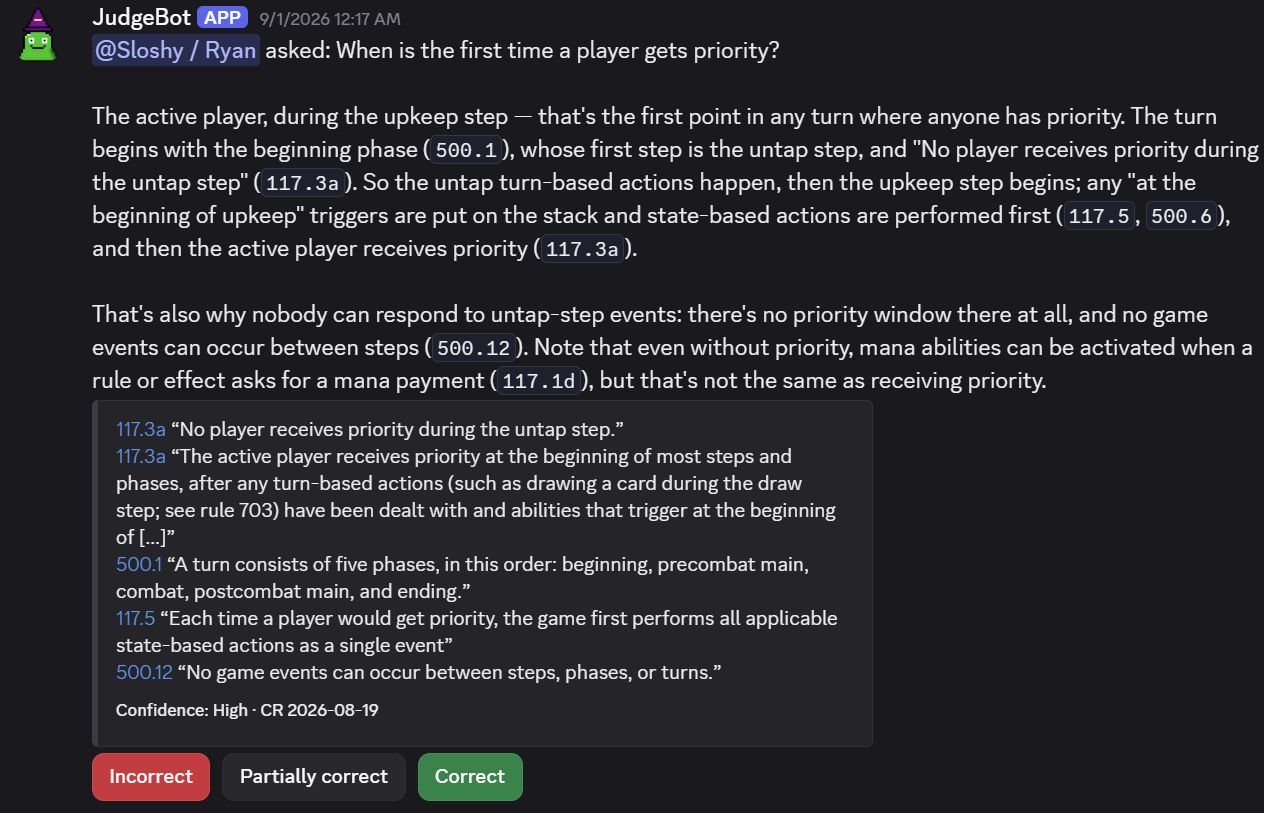
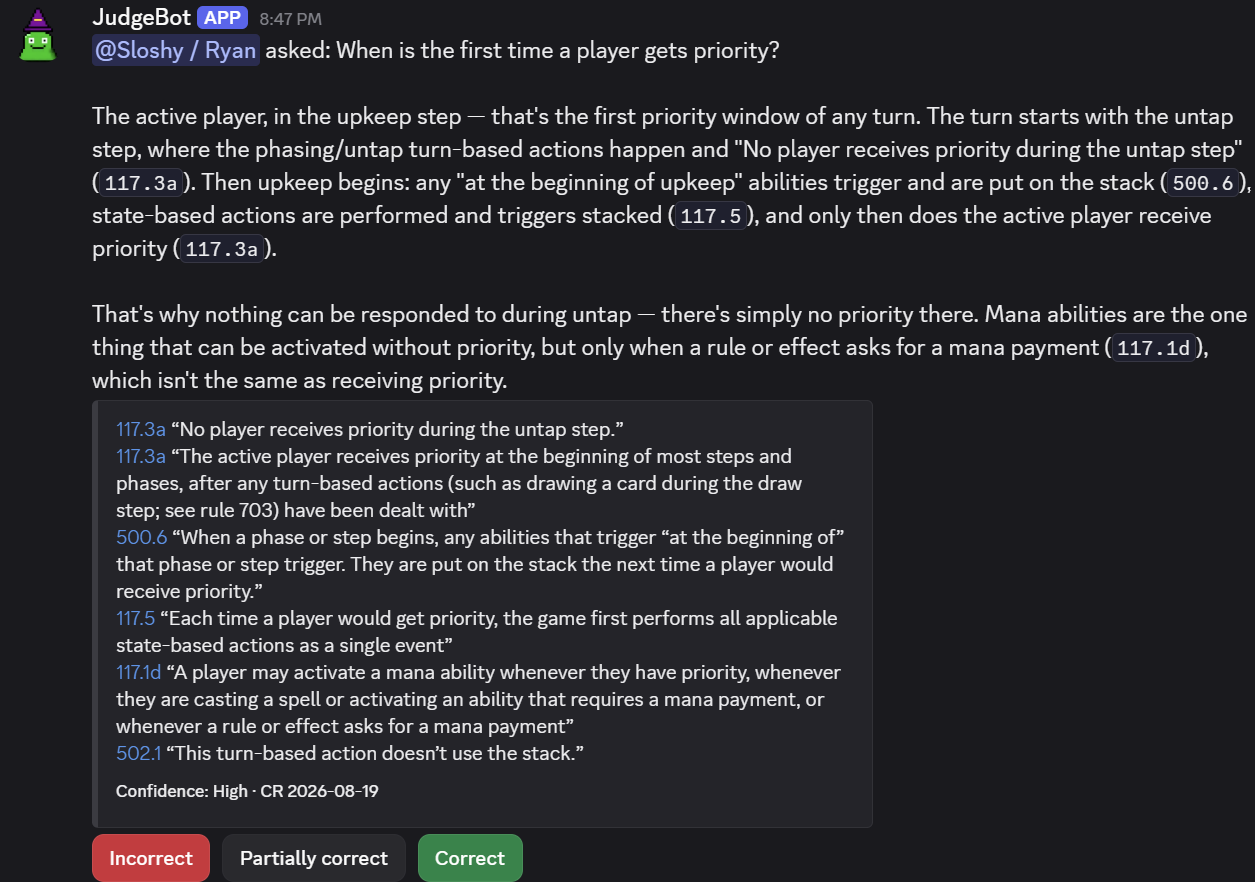
Show the current Discord replies, and date 1.0.0 the day it ships
Four screenshots from the 1.0.0 build replace the two from an August build
and add two: a /judge answer with cards (mana symbols, a dated ruling, the
Cards line), a rules-only answer, the did-you-mean row and a /card lookup.
The README leads with the real reply in place of a text mock that no longer
matched it. The changelog's 1.0.0 entry is dated 2026-09-20.

Claude-Session: https://claude.ai/code/session_01Q5SsSH4yLamw388jztbeCy

Changed region(s): [[0.0622, 0.123, 1.0, 1.0], [0.0, 0.0, 0.6215, 0.0923], [0.3108, 0.9225, 0.4351, 1.0]]

diff --git a/site/src/content/docs/using/discord.md b/site/src/content/docs/using/discord.md
@@ -15,7 +15,7 @@ double-faced card). Anything else in brackets, such as a nickname or a near miss
 offered back as a choice rather than corrected. Answers take twenty to forty-five seconds.
 The bot acknowledges at once and edits the reply in.
 
-![A Discord reply to /judge asking when a player first gets priority. The answer runs to two paragraphs with rule numbers inline, five rule quotations follow in an embed with the confidence and CR version, and three rating buttons sit beneath.](../../../assets/screenshots/discord-answer-rules.png)
+![A Discord reply to /judge asking when a player first gets priority. The answer runs to two paragraphs with rule numbers inline, six rule quotations follow in an embed with the confidence and CR version, and three rating buttons sit beneath.](../../../assets/screenshots/discord-answer-rules.png)
 
 The reply opens with a non-pinging `@you asked:` header, then the ruling, then a citation
 per line. Rule citations link to the rule on the Yawgatog mirror of the Comprehensive
@@ -28,6 +28,8 @@ of up to five buttons instead of a guess. Only the person who asked can pick. If
 matches nothing, the reply says which and suggests `[[Full Card Name]]`. Tournament-policy and
 price questions are declined after the cheap classification step, before the expensive
 synthesis call.
+
+![A Discord reply asking which Tibalt was meant: a numbered list of three cards, and a button for each.](../../../assets/screenshots/discord-did-you-mean.png)
 
 Ask a follow-up in the same channel and the bot sees the recent question-and-answer pairs
 from that channel as history, so "what if it had flash?" works.
@@ -66,6 +68,8 @@ Lookups from the bot's database. They call no model, cost nothing and answer at 
   longer than an embed is cut, with a note to ask for one sub-rule.
 
 Both post in the channel. Add `private: True` to see the result alone.
+
+![The /card reply for Dark Confidant: the name as a link, the mana cost drawn as symbols, the type line, the Oracle text, and two rulings, each with its date.](../../../assets/screenshots/discord-card-lookup.png)
 
 ## Rating buttons
 

diff --git a/site/src/content/docs/start-here/sample-answers.md b/site/src/content/docs/start-here/sample-answers.md
@@ -17,7 +17,9 @@ A nickname that could mean several cards gets a question back instead of a guess
 On Discord the answer arrives as a message, with the citations in an embed and the rating
 buttons beneath it. The "did you mean…?" choices are buttons too.
 
-![A Discord reply to /judge. It restates the question about revealing an X-cost spell to Dark Confidant, answers that X counts as 0, and cites the card's Oracle text, rule 202.3e and a Dark Confidant ruling in an embed that ends with the confidence and CR version. Three buttons follow: Incorrect, Partially correct, Correct.](../../../assets/screenshots/discord-answer-citations.png)
+![A Discord reply to /judge. It restates the question about an X-cost spell and Dark Confidant, answers in two paragraphs with rule numbers inline and mana symbols drawn as pictures, and cites three rules, the card's Oracle text and a dated Dark Confidant ruling in an embed that ends with "Cards: Dark Confidant", the confidence and the CR version. Three buttons follow: Incorrect, Partially correct, Correct.](../../../assets/screenshots/discord-answer-citations.png)
+
+![A Discord reply asking which Tibalt was meant: a numbered list of three cards, and a button for each.](../../../assets/screenshots/discord-did-you-mean.png)
 
 ## Where these come from
 

diff --git a/README.md b/README.md
@@ -10,14 +10,9 @@ current Oracle text, or a prior rated call. On Discord, buttons rate an answer 1
 (incorrect / partially correct / correct), and ratings feed back into how future answers
 are grounded.
 
-```
-/judge question: does bob's trigger count goyf's mana value as 0?
+<img src="site/src/assets/screenshots/discord-answer-citations.png" width="720" alt="A Discord reply to /judge about an X-cost spell and Dark Confidant: a two-paragraph ruling with rule numbers inline and mana symbols drawn as pictures, an embed quoting three rules, the card's Oracle text and a dated ruling, the cards the question resolved to, the confidence and CR version, and three rating buttons.">
 
-@you asked: does bob's trigger count goyf's mana value as 0?
-You'll lose 2 life, not 0. Tarmogoyf's mana value is 0 anywhere its {X}… [702.19b] …
-  Citations: [202.3](…CR link…) · [Ruling (2021-02-05) — Tarmogoyf](…scryfall…) · [Oracle text — Dark Confidant](…)
-  Confidence: High · CR 2026-08-19        [Incorrect] [Partially correct] [Correct]
-```
+The same pipeline behind the web page:
 
 <picture>
   <source media="(prefers-color-scheme: dark)" srcset="site/src/assets/screenshots/web-answer-dark.png">

diff --git a/CHANGELOG.md b/CHANGELOG.md
@@ -17,7 +17,7 @@ migration is not supported; restore the backup taken before the upgrade instead.
 
 ## [Unreleased]
 
-## [1.0.0] - 2026-09-19
+## [1.0.0] - 2026-09-20
 
 The first release. `docs/ARCHITECTURE.md` describes everything below as it stands, and
 `docs/DECISIONS.md` records why.
